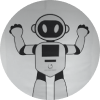
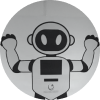
add font

diff --git a/src/ChatWidget/cogniwide-chatwidget.scss b/src/ChatWidget/cogniwide-chatwidget.scss
@@ -1,3 +1,4 @@
+
 div {
     box-sizing: border-box;
 }
@@ -1069,6 +1070,19 @@ $white : #fff;
 $muted:#666;
 $light: #eeeeee;
 
+@font-face {
+    font-family: 'cogni-regular';
+    src: url(cogniwide-assets/fonts/Poppins-Regular.ttf) format("woff2");
+}
+@font-face {
+    font-family: 'cogni-medium';
+    src: url(assets/fonts/SailecRegular.ttf) format("woff2");
+}
+@font-face {
+    font-family: 'cogni-bold';
+    src: url(assets/fonts/SailecRegular.ttf) format("woff2");
+}
+
 #cogniassist {
     // border: 0px;
     // background-color: transparent;
@@ -1086,15 +1100,17 @@ $light: #eeeeee;
 }
 
 .cogniwidechat {
+    font-family: 'cogni-regular';
 
     .chat_box_container {
         width: 370px;
-        height: calc(100vh - 80px);
+        height: calc(100vh - 60px);
         bottom: 30px;
         box-shadow: 0 4px 16px rgba(0, 0, 0, .25);
         border-radius: 10px;
         overflow: hidden;
         font-family: 'Poppins', sans-serif !important;
+        
 
     }
 
@@ -1182,6 +1198,7 @@ $light: #eeeeee;
             width: 100%;
             box-sizing: border-box;
             margin-bottom: 0;
+            max-width: 100%;
         }
 
         .cwc-left {
@@ -1190,7 +1207,7 @@ $light: #eeeeee;
                 margin-left: 10px;
                 padding: 0;
                 background: $white;
-                max-width: 280px;
+                max-width: 270px;
 
                 p {
                     padding: 8px 15px;
@@ -1267,7 +1284,7 @@ $light: #eeeeee;
                 margin-left: 10px;
                 padding: 0;
                 background: $primary_clr !important;
-                max-width: 280px;
+                max-width: 270px;
 
                 p {
                     padding: 8px 15px;
@@ -1324,9 +1341,17 @@ $light: #eeeeee;
                 color: $white;
             }
         }
-        .avatar{
-            border-radius: 0 !important;
+        .avatar_wrapper{
+            width: 40px;
+            height: 40px;
+            .avatar{
+                width: 100%;
+                height: 100%;;
+                border-radius: 100px !important;
+                border: 1px solid $black;
+            }
         }
+        
     }
 
     /* BOF FOOTER */
